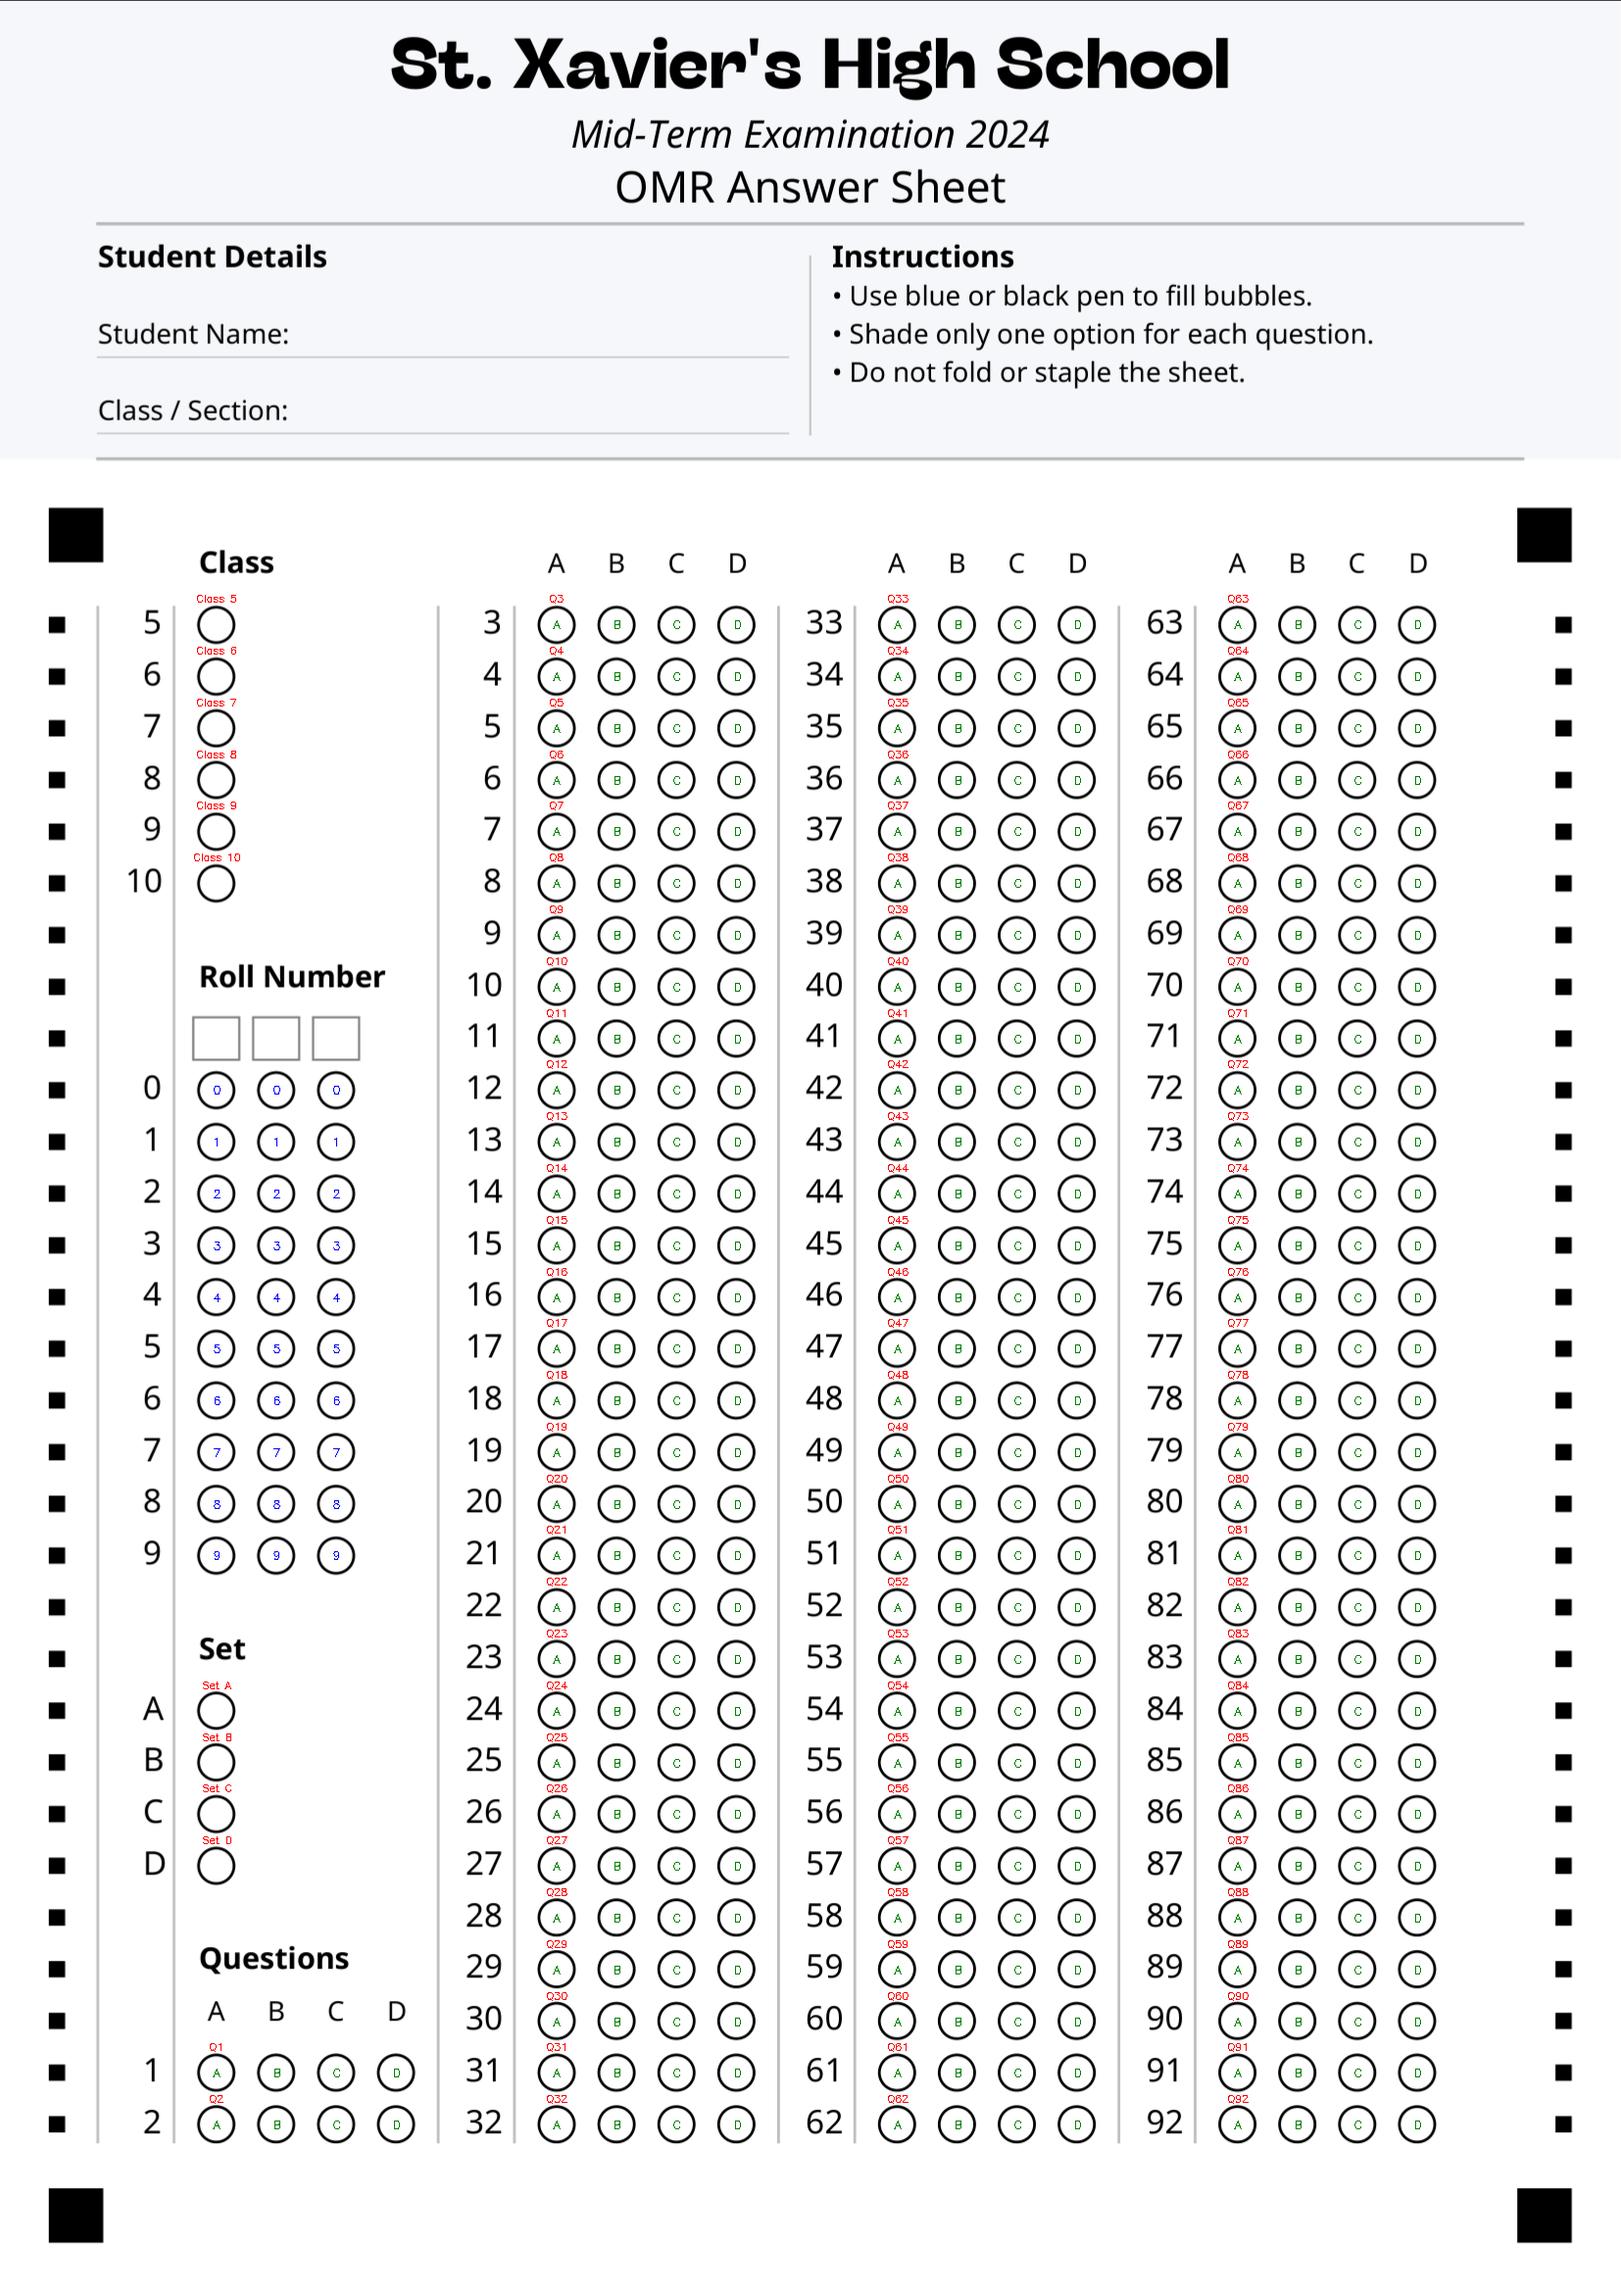
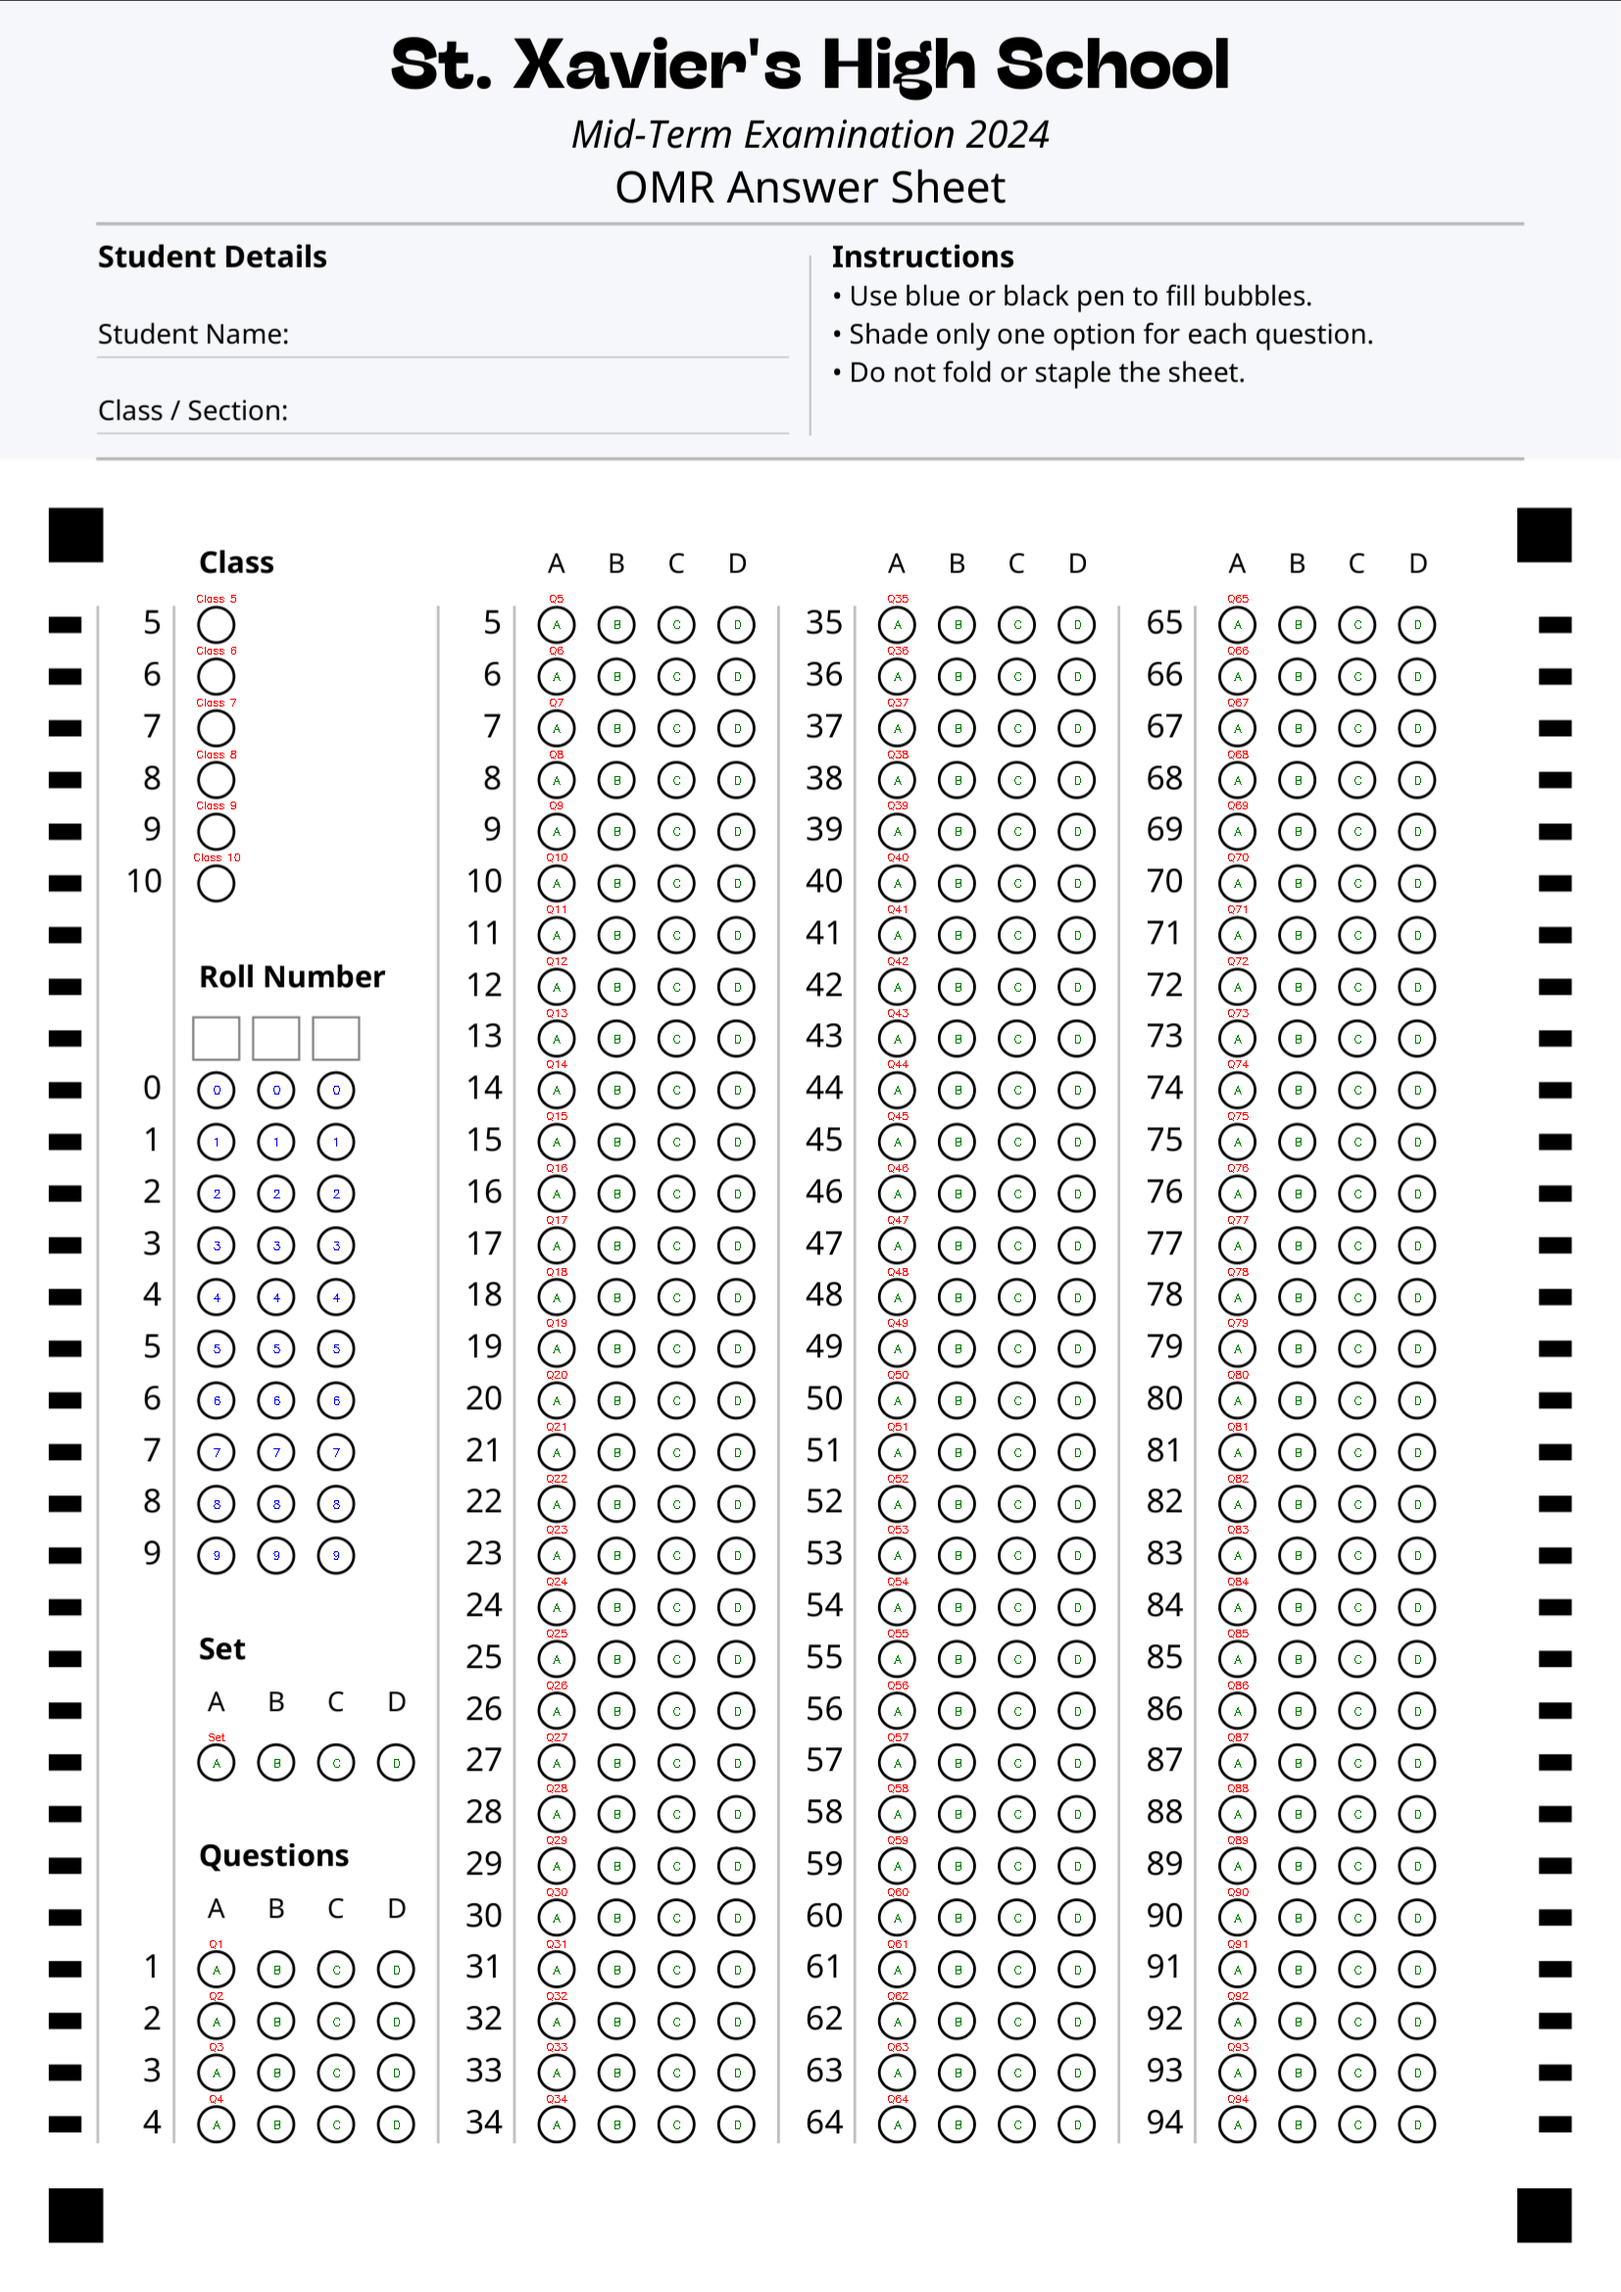
Convert Set section to horizontal layout for space efficiency
Changed Set section from vertical (4 rows) to horizontal (1 row) layout:
- Set bubbles now appear as a single horizontal row (A B C D)
- Positioned between Roll Number and Questions sections
- Maintains column-by-column filling workflow
- Frees ~3 rows in Column 1 for additional questions

Updated omr_layout.py to generate horizontal bubble coordinates,
omr_sheet_generator_new.py to draw option headers, and omr_processor.py
to label bubbles correctly with option letters inside.

diff --git a/omr_processor.py b/omr_processor.py
@@ -589,14 +589,30 @@ def overlay_labels(image: np.ndarray, group_samples: List[BubbleGroupSample]) ->
             cv2.putText(output, label_text, (text_x, text_y), font, font_scale, (0, 0, 255), thickness)
 
         elif sample.group.category == "set":
-            # Set: Draw "Set" label above and set letter (A/B/C/D) next to bubble
+            # Set: Draw "Set" label above first bubble and option letters inside bubbles
             first_detection = sample.detections[0]
-            label_text = f"Set {sample.group.display_label}"
+            label_text = "Set"
             font_scale = 0.35
             text_size = cv2.getTextSize(label_text, font, font_scale, thickness)[0]
             text_x = first_detection.bubble.x - text_size[0] // 2
             text_y = first_detection.bubble.y - first_detection.bubble.radius - 5
             cv2.putText(output, label_text, (text_x, text_y), font, font_scale, (0, 0, 255), thickness)
+
+            # Draw option label (A/B/C/D) inside each bubble
+            for detection in sample.detections:
+                option_text = detection.layout.label
+                option_size = cv2.getTextSize(option_text, font, 0.4, thickness)[0]
+                text_x = detection.bubble.x - option_size[0] // 2
+                text_y = detection.bubble.y + option_size[1] // 2
+                cv2.putText(
+                    output,
+                    option_text,
+                    (text_x, text_y),
+                    font,
+                    0.4,
+                    (0, 128, 0),
+                    thickness,
+                )
 
         elif sample.group.category == "question":
             # Question: Draw question label above and option labels inside bubbles

diff --git a/omr_layout.py b/omr_layout.py
@@ -163,10 +163,11 @@ def build_section_specifications(sheet: SheetLayout) -> List[SectionSpec]:
         SectionSpec(
             category="set",
             label="Set",
-            bubble_rows=sheet.set_options,
+            bubble_rows=1,  # Single row with all options horizontal
             has_label_row=True,
             has_spacer_after=True,
-            has_special_row=False,
+            has_special_row=True,  # Option headers (A B C D) above bubbles
+            special_row_position="before",
         ),
         SectionSpec(
             category="question",
@@ -430,12 +431,14 @@ def create_bubble_group_from_allocation(
 
     elif allocation.section_category == "set":
         set_labels = ["A", "B", "C", "D"]
-        display_label = set_labels[allocation.bubble_group_index]
-        group_index = allocation.bubble_group_index
-        # Single bubble
-        bubbles.append(
-            BubbleCoordinate(x=x_base, y=y, radius=layout.radius, label="•", index=0)
-        )
+        display_label = ""  # No individual display label for horizontal layout
+        group_index = 0  # Single group for all set options
+        # Multiple bubbles horizontal (A, B, C, D)
+        for opt_idx, label in enumerate(set_labels):
+            x = x_base + opt_idx * (layout.diameter + layout.option_gap)
+            bubbles.append(
+                BubbleCoordinate(x=x, y=y, radius=layout.radius, label=label, index=opt_idx)
+            )
 
     elif allocation.section_category == "question":
         display_label = str(question_counter)

diff --git a/omr_sheet_generator_new.py b/omr_sheet_generator_new.py
@@ -321,9 +321,14 @@ def draw_unified_bubble_section(
             elif allocation.row_type == "headers":
                 # Draw option headers (A B C D)
                 pdf.set_font("Noto", size=10)
-                ascii_offsets = [chr(ord("A") + opt) for opt in range(sheet.question_options)]
+                # Determine number of options based on section category
+                if allocation.section_category == "set":
+                    num_options = sheet.set_options
+                else:  # questions
+                    num_options = sheet.question_options
+                ascii_offsets = [chr(ord("A") + opt) for opt in range(num_options)]
                 x_bubble_base = x_base + layout.radius
-                for opt in range(sheet.question_options):
+                for opt in range(num_options):
                     x = x_bubble_base + opt * (layout.diameter + layout.option_gap)
                     _text(pdf, geom, x - 3.25, allocation.y_position, ascii_offsets[opt])
 
